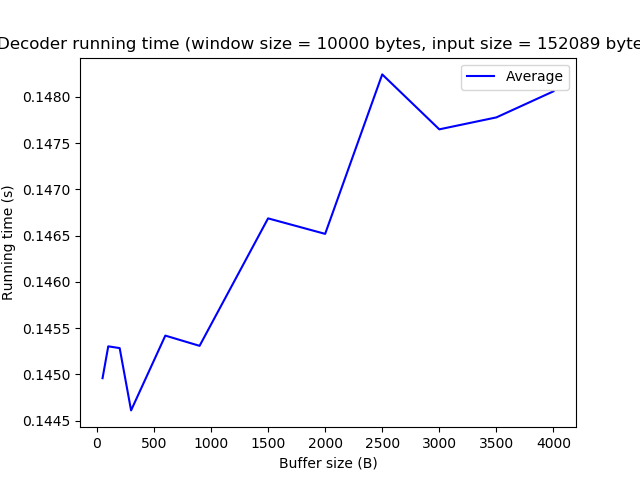
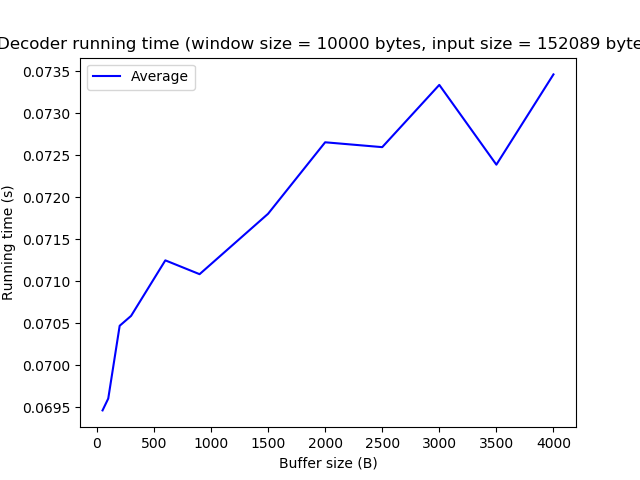
Speed up decoder and get newplots

diff --git a/decoder.py b/decoder.py
@@ -40,7 +40,7 @@ class Lz77Decoder():
 
         self.decompression = []
 
-        message = b''
+        message = bytearray(b'')
         index = 0
 
         with open(filename, 'rb') as input_file:
@@ -67,13 +67,13 @@ class Lz77Decoder():
 
                     self.decompression.append((distance, length, next_sym))
 
-                    substring = message[index - distance:index - distance + length] + next_sym
+                    substring = bytes(message[index - distance:index - distance + length]) + next_sym
                     message += substring
 
                     index += length + 1
 
         with open(filename.replace(self.file_ext, ''), 'wb') as output_file:
-            output_file.write(message)
+            output_file.write(bytes(message))
 
         os.remove(filename)
 
@@ -107,6 +107,7 @@ class LzssDecoder(Lz77Decoder):
     def __init__(self, window_size, buffer_size):
         super().__init__(window_size, buffer_size)
         self.file_ext = '.LZSS'
+
 
     def decompress(self, filename):
         """
@@ -167,6 +168,6 @@ if __name__ == '__main__':
     decoder = Lz77Decoder(W, L)
     decoder.decompress(f'{FILE}.LZ77')
 
-    # decoder = LzssDecoder(10000, 250)
-    # decoder.decompress(f'lorem/10kb.txt.LZSS')
+    decoder = Lz77Decoder(10000, 100)
+    decoder.decompress(f'lorem/1000kb.txt.LZ77')
     # [print(code) for code in decoder.decompression]
